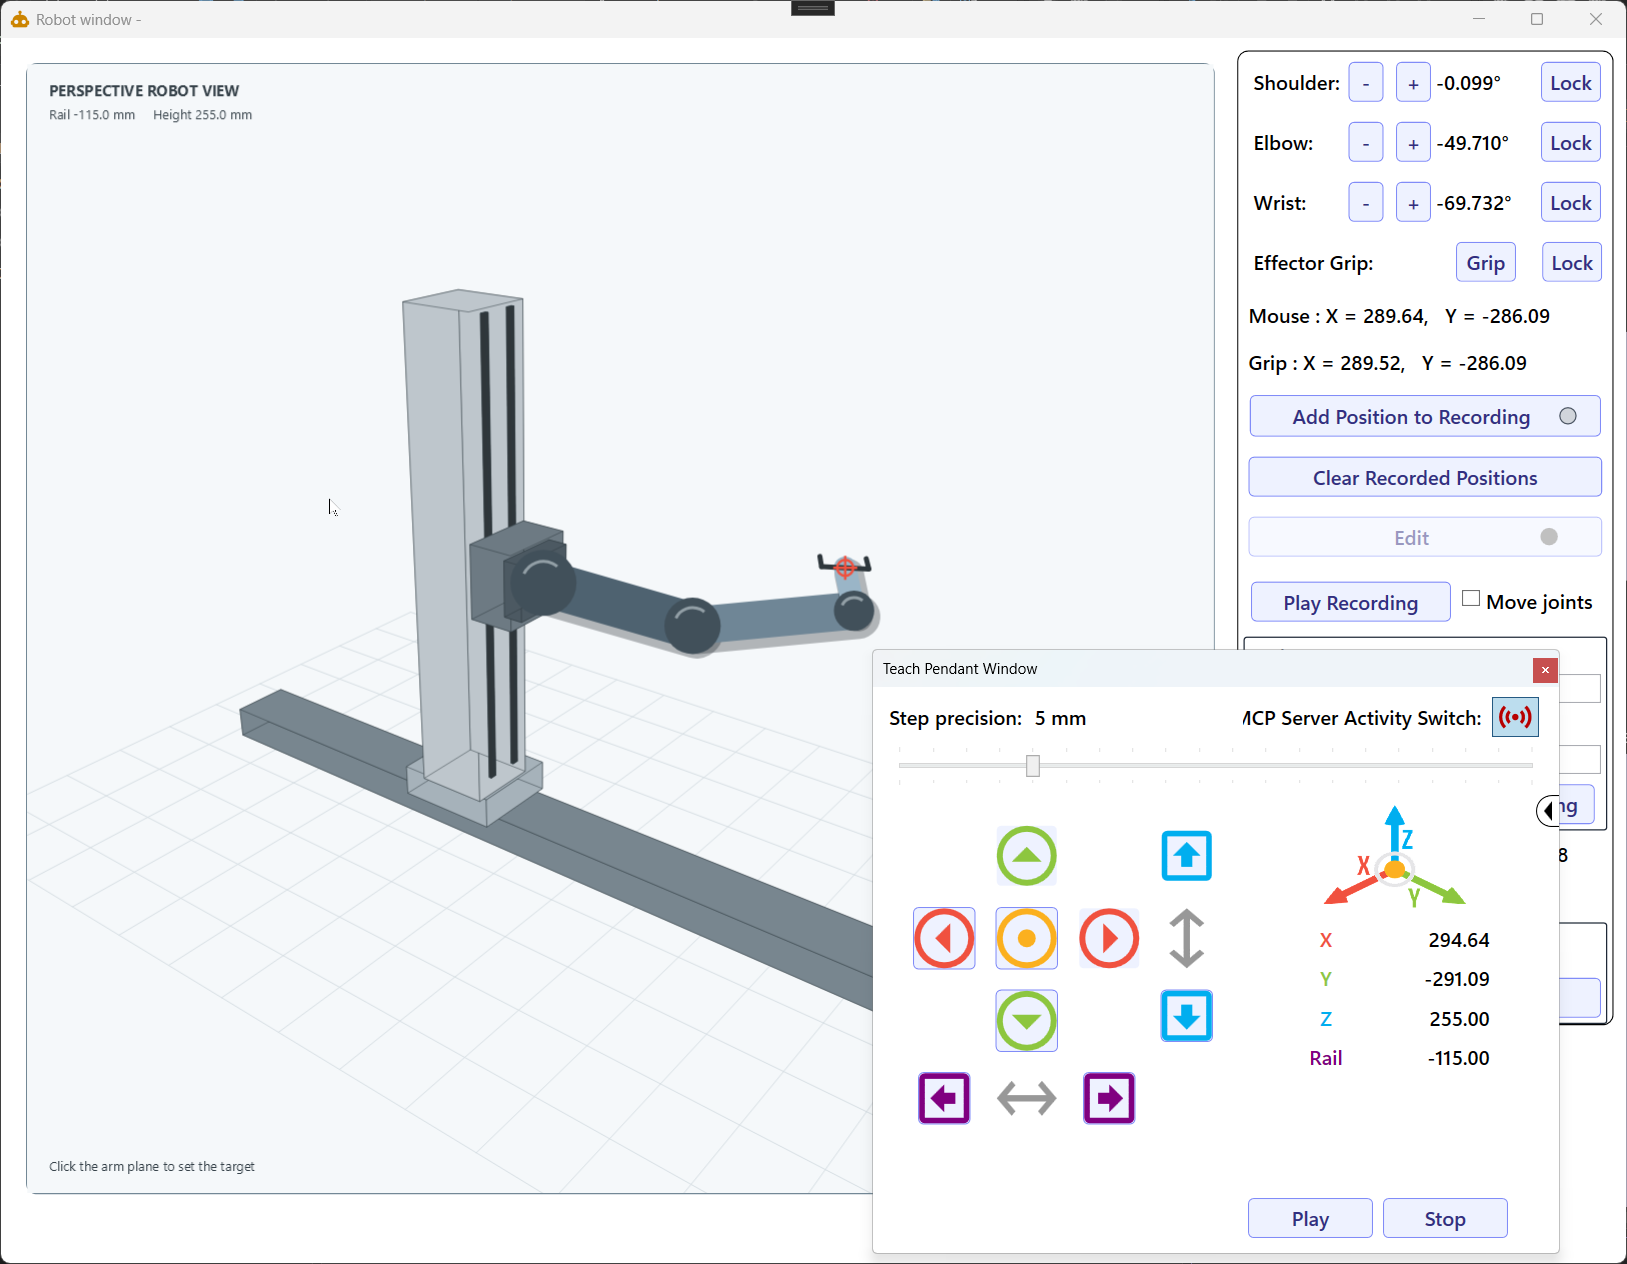
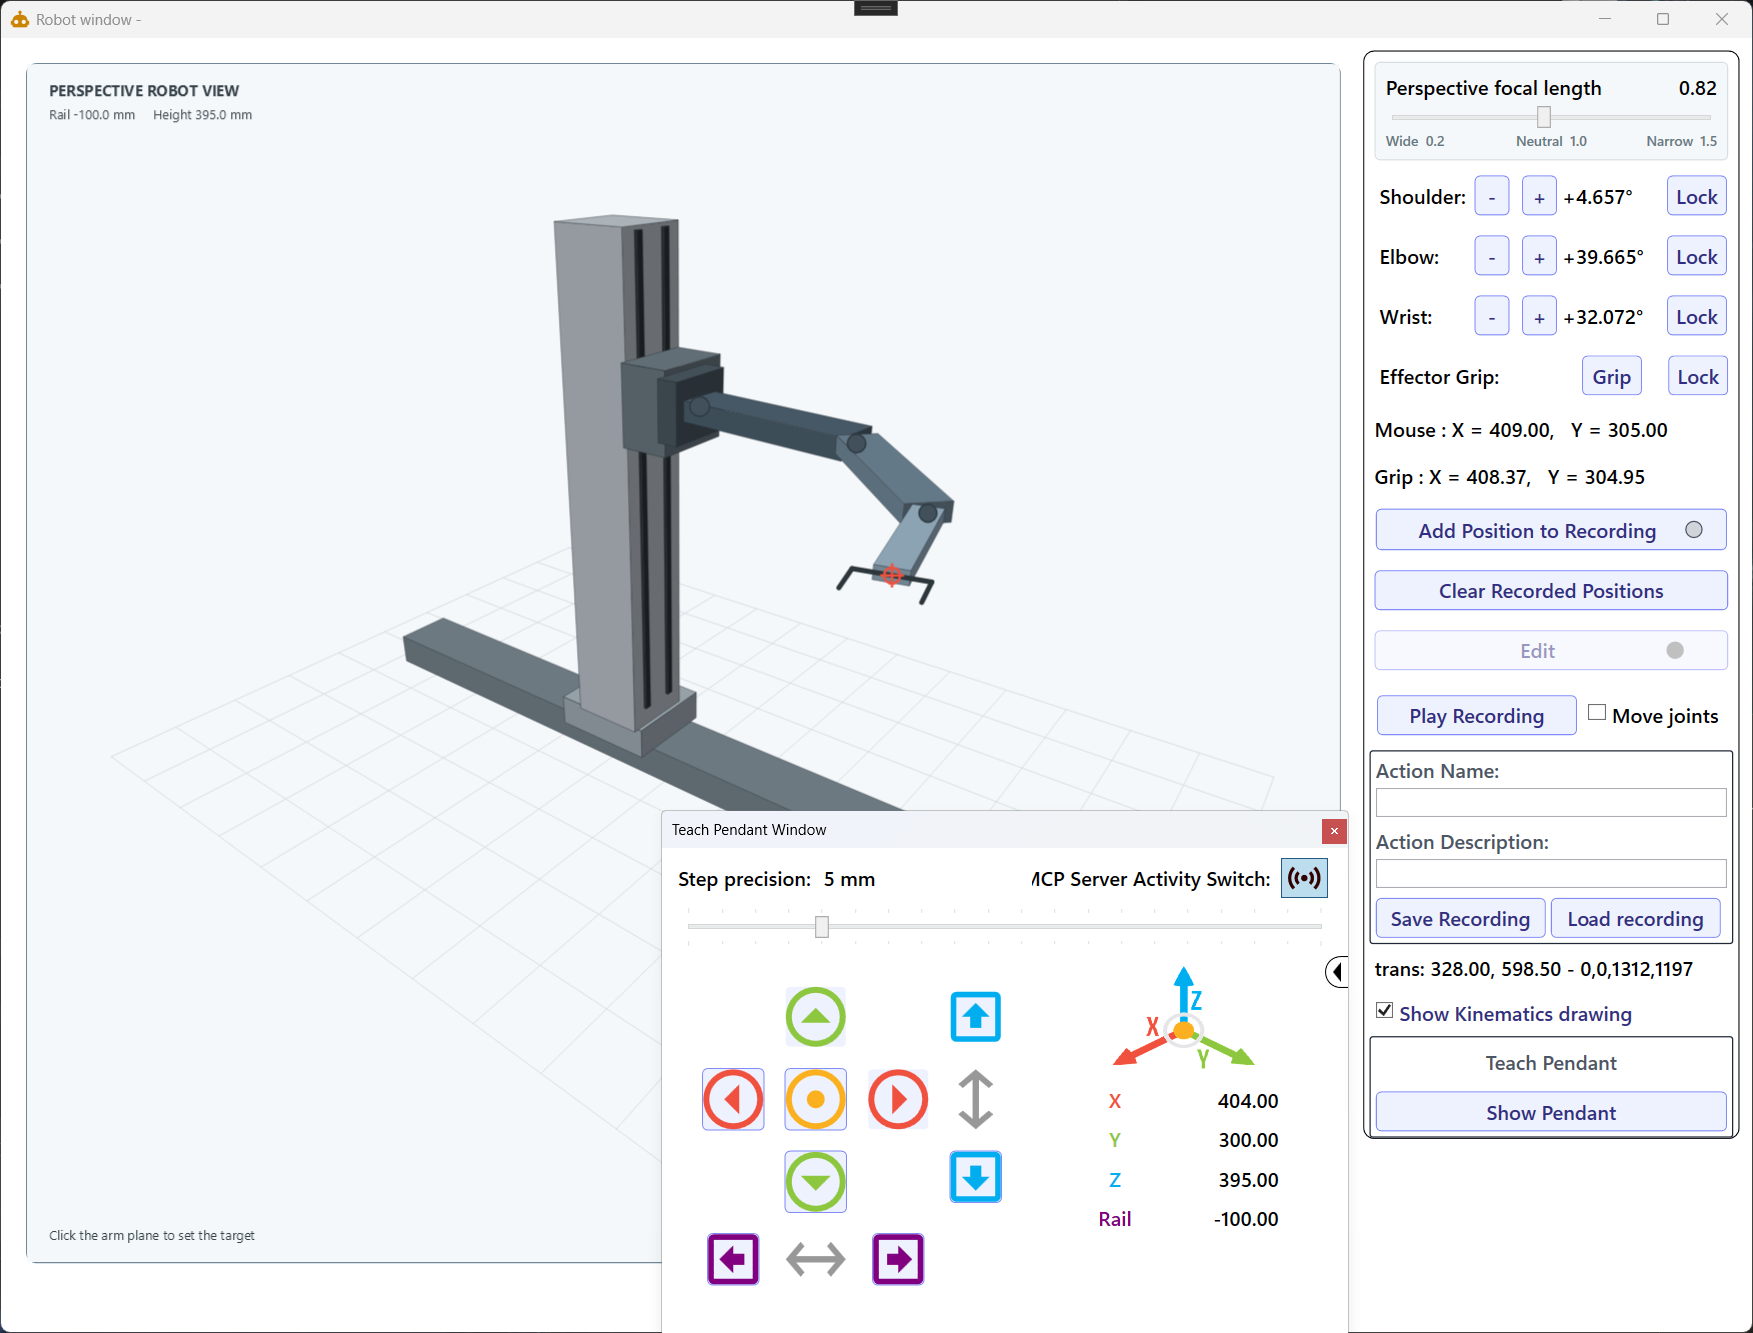
Add adjustable perspective focal length slider to 3D view
Introduce a "Perspective focal length" slider in RobotWindow.xaml, allowing users to interactively adjust the camera's focal length in the 3D robot view. Refactor RobotPerspectiveRenderer.cs to use a FocalLength property with clamping and update camera calculations accordingly. Update SetCamera to maintain subject framing as focal length changes. Add event handling in RobotWindow.xaml.cs to sync slider changes with the renderer. Apply minor UI tweaks for improved projection centering and vertical offset.

diff --git a/KinematicsDemo/Views/RobotWindow.xaml b/KinematicsDemo/Views/RobotWindow.xaml
@@ -287,6 +287,27 @@
             BorderThickness="1,1,1,1"
             CornerRadius="8,8,8,8">
             <StackPanel Width="299" Orientation="Vertical">
+                <Border Margin="8,8,8,4" Padding="8" Background="#FFF5F8FA"
+                        BorderBrush="#FFD5DEE3" BorderThickness="1" CornerRadius="4">
+                    <StackPanel>
+                        <DockPanel Margin="0,0,0,5">
+                            <TextBlock VerticalAlignment="Center" Text="Perspective focal length" />
+                            <TextBlock Margin="8,0,0,0" HorizontalAlignment="Right"
+                                       FontWeight="SemiBold"
+                                       Text="{Binding ElementName=FocalLengthSlider, Path=Value, StringFormat={}{0:F2}}" />
+                        </DockPanel>
+                        <Slider x:Name="FocalLengthSlider"
+                                Minimum="0.2" Maximum="1.5" Value="0.82"
+                                SmallChange="0.05" LargeChange="0.1"
+                                TickFrequency="0.1" IsSnapToTickEnabled="False"
+                                ValueChanged="FocalLengthSlider_ValueChanged" />
+                        <Grid Margin="0,2,0,0">
+                            <TextBlock HorizontalAlignment="Left" FontSize="11" Foreground="#FF657780" Text="Wide  0.2" />
+                            <TextBlock HorizontalAlignment="Center" FontSize="11" Foreground="#FF657780" Text="Neutral  1.0" />
+                            <TextBlock HorizontalAlignment="Right" FontSize="11" Foreground="#FF657780" Text="Narrow  1.5" />
+                        </Grid>
+                    </StackPanel>
+                </Border>
                 <StackPanel Margin="8" Orientation="Horizontal">
                     <TextBlock
                         Width="72"

diff --git a/KinematicsDemo/Views/RobotPerspectiveRenderer.cs b/KinematicsDemo/Views/RobotPerspectiveRenderer.cs
@@ -10,13 +10,13 @@ namespace KinematicsDemo.Views;
 internal sealed class RobotPerspectiveRenderer
 {
     private const float ArmBaseOffsetX = 125;
-    // A sub-1 viewport multiplier gives the scene a wider, more visibly
-    // perspective lens than the previous 1.15 telephoto-like view.
-    private const float FocalLengthMultiplier = .82f;
+    private const float DefaultFocalLength = .82f;
     private static readonly Vector3 LightDirection = Vector3.Normalize(new Vector3(-.45f, -.65f, 1f));
 
     private Vector3 camera, forward, right, up;
     private float focal, cx, cy;
+
+    public float FocalLength { get; set; } = DefaultFocalLength;
 
     public void Draw(SKCanvas c, SKImageInfo info, RobotArmViewModel vm)
     {
@@ -106,13 +106,18 @@ internal sealed class RobotPerspectiveRenderer
         float span = (float)Math.Max(850, vm.RailPositionRange?.ZeroMax ?? 1000);
         float center = (float)((vm.RailPositionRange?.Min + vm.RailPositionRange?.Max) / 2 ?? 0);
         Vector3 target = new(center, 0, 270);
-        camera = target + new Vector3(span * .95f, -span * 1.25f, span * .78f);
+        // Dolly the camera along with focal-length changes. This preserves useful
+        // subject framing while still allowing shorter lenses to produce stronger
+        // near/far perspective. The minimum avoids entering the robot at 0.2.
+        float focalRatio = Math.Max(.45f, Math.Clamp(FocalLength, .2f, 1.5f) / DefaultFocalLength);
+        float framingDistance = span * .76f * focalRatio;
+        camera = target + new Vector3(framingDistance * .95f, -framingDistance * 1.25f, framingDistance * .78f);
         forward = Vector3.Normalize(target - camera);
         right = Vector3.Normalize(Vector3.Cross(forward, Vector3.UnitZ));
         up = Vector3.Normalize(Vector3.Cross(right, forward));
-        focal = Math.Min(width, height) * FocalLengthMultiplier;
-        cx = width * .43f;
-        cy = height * .54f;
+        focal = Math.Min(width, height) * Math.Clamp(FocalLength, .2f, 1.5f);
+        cx = width * .5f;
+        cy = height * .45f;
     }
 
     private static Vector3 World(Point p, Point o, float bx, float z) => new(bx + ArmBaseOffsetX + (float)(p.X - o.X), -(float)(p.Y - o.Y), z);

diff --git a/KinematicsDemo/Views/RobotWindow.xaml.cs b/KinematicsDemo/Views/RobotWindow.xaml.cs
@@ -65,6 +65,12 @@ public partial class RobotWindow : Window
         Robot3DSurface.InvalidateVisual();
     }
 
+    private void FocalLengthSlider_ValueChanged(object sender, RoutedPropertyChangedEventArgs<double> e)
+    {
+        _perspectiveRenderer.FocalLength = (float)e.NewValue;
+        Robot3DSurface?.InvalidateVisual();
+    }
+
     private void DrawSegments(object sender, SkiaSharp.Views.Desktop.SKPaintSurfaceEventArgs e)
     {
         var precision =_robotViewModel.Precision; // in mm
